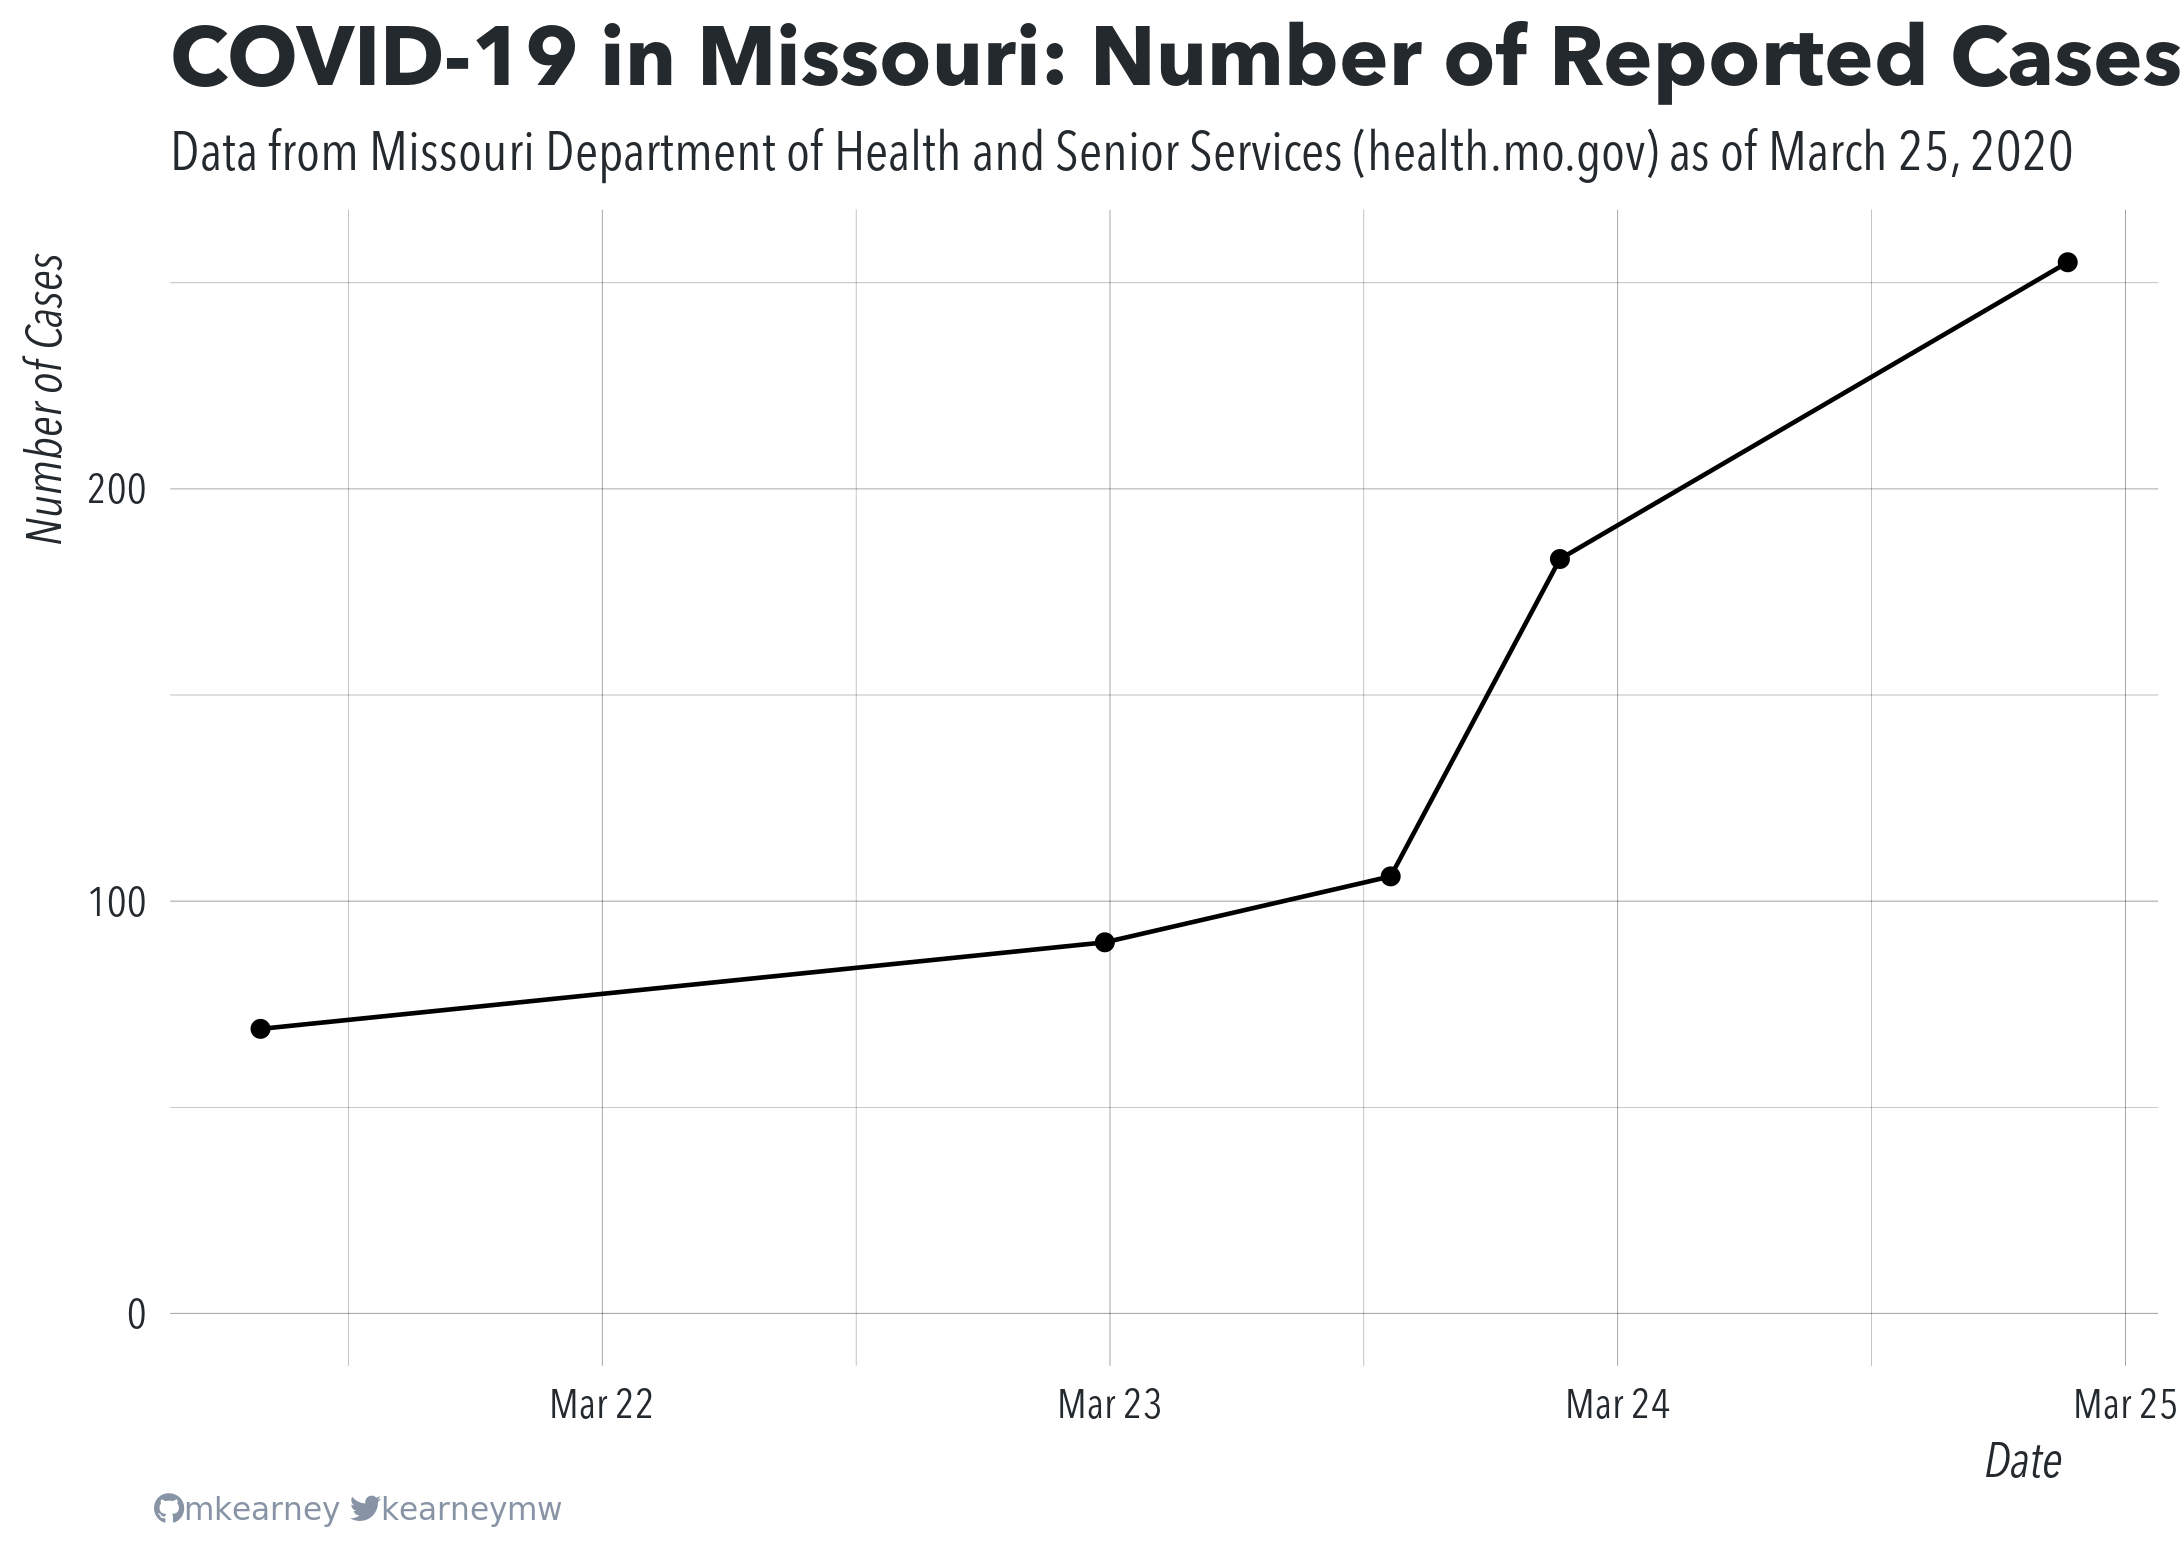
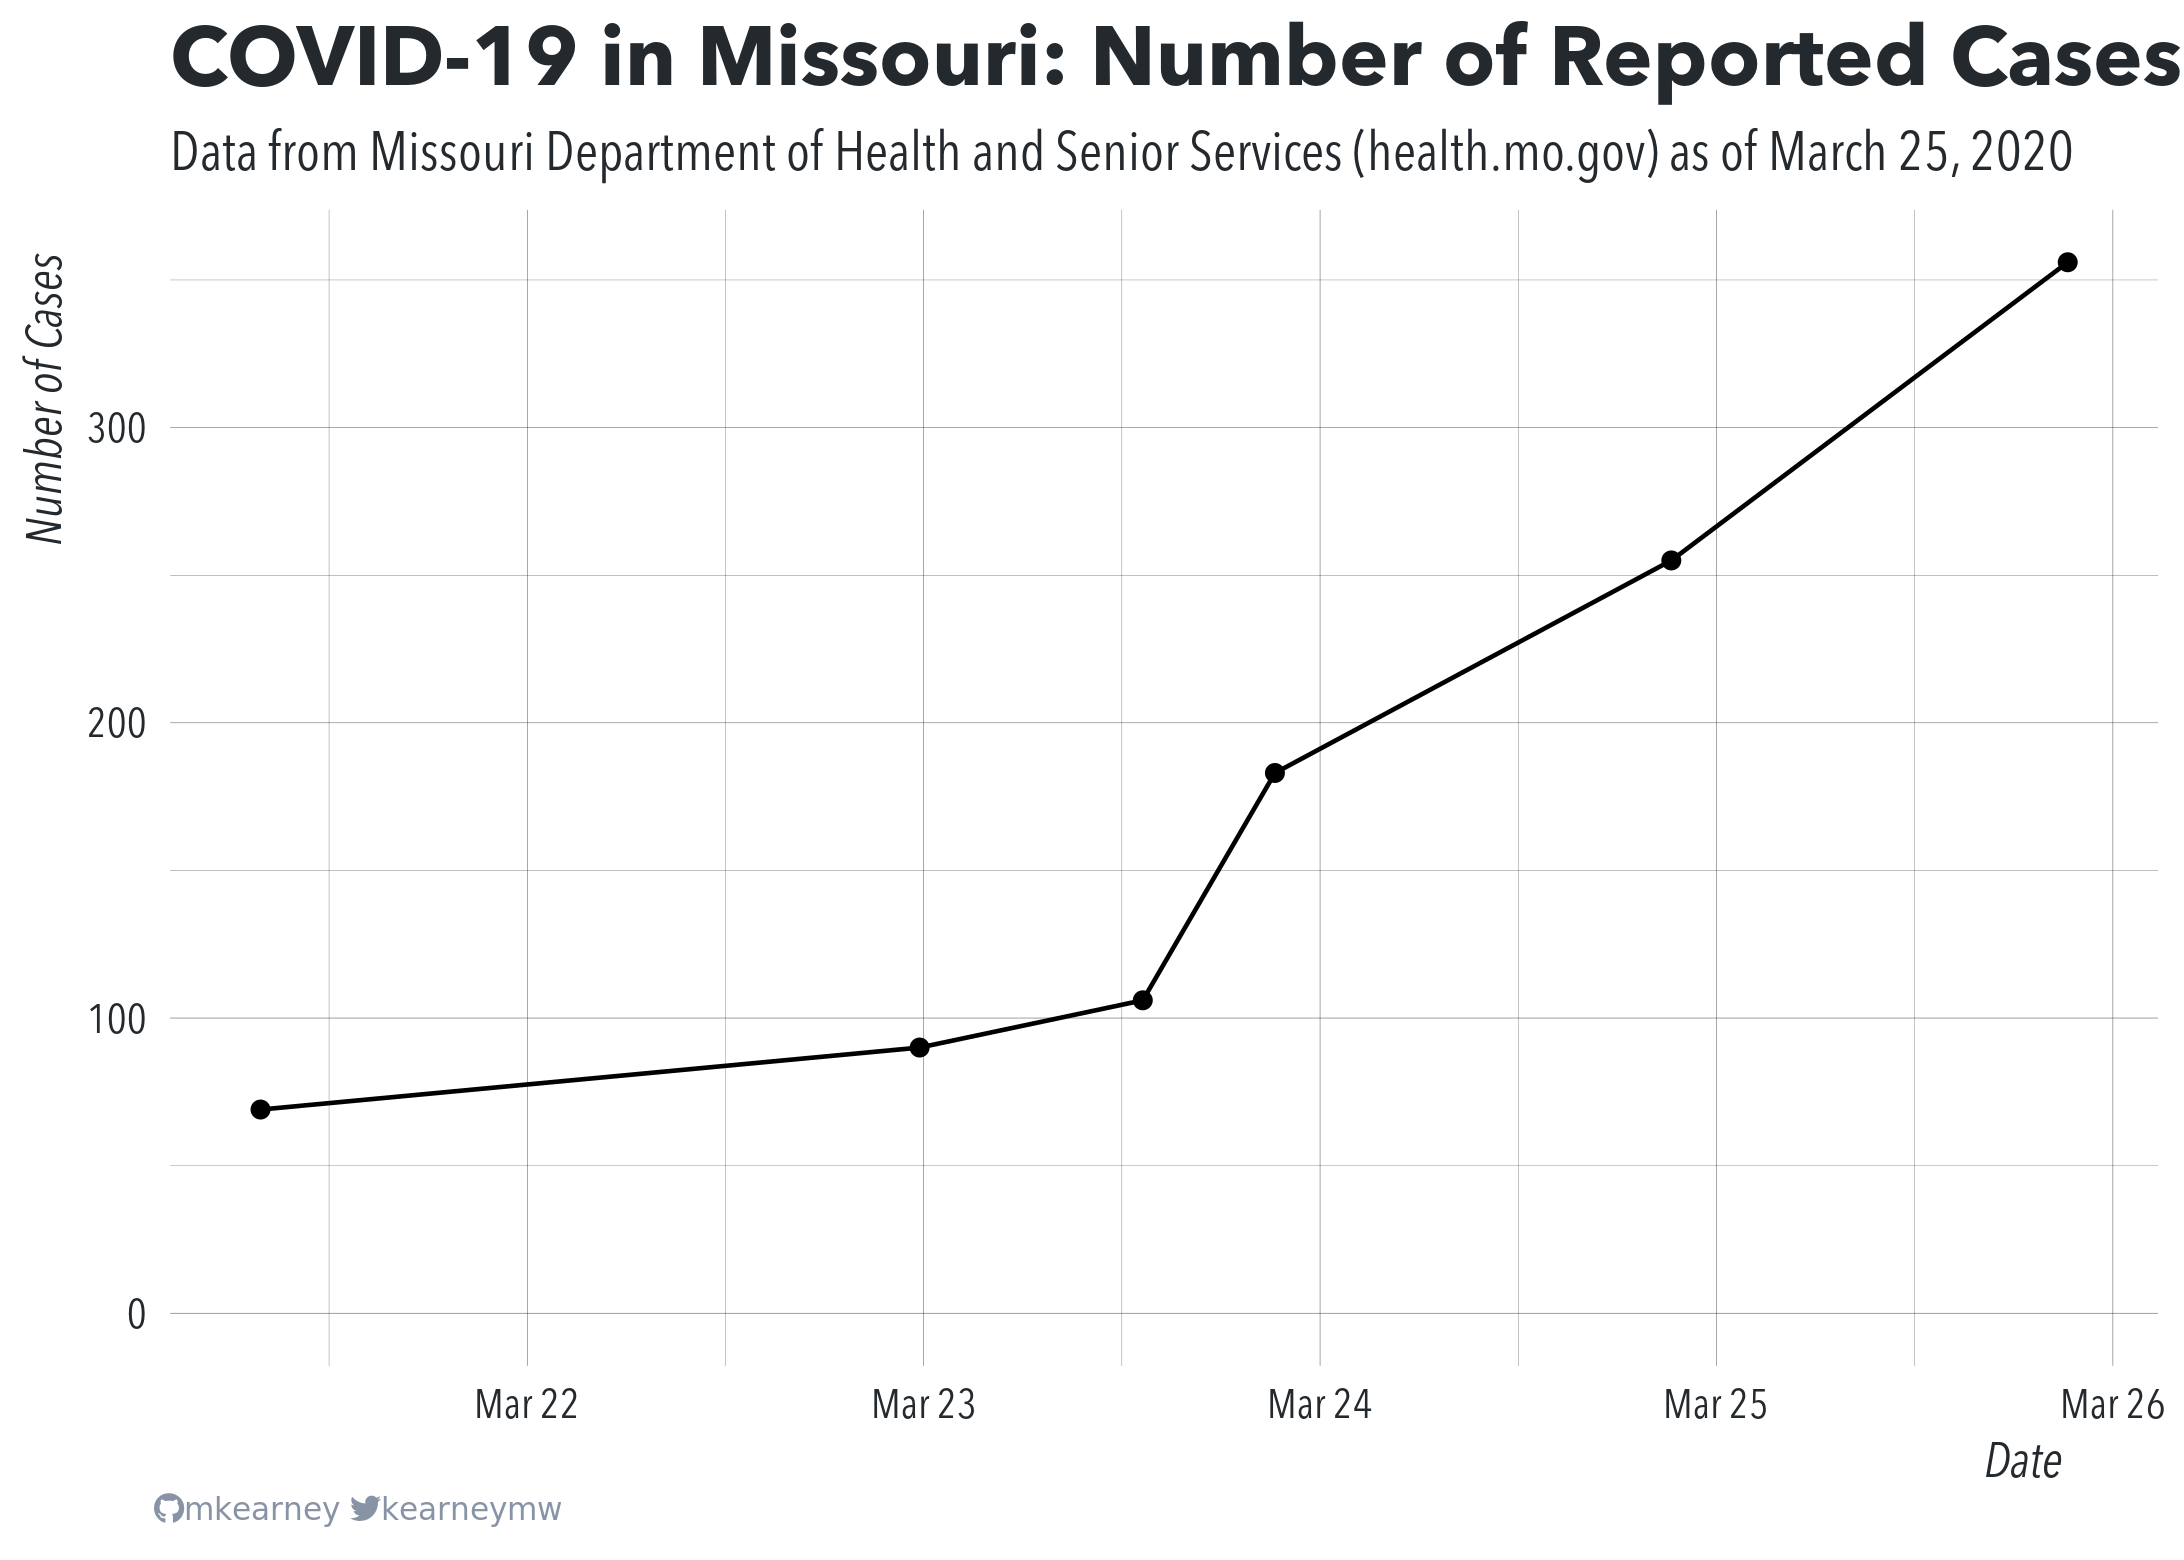
auto update

diff --git a/README.md b/README.md
@@ -25,36 +25,43 @@ at the state or county level:
 ``` r
 ## state totals daya
 suppressMessages(readr::read_csv("data/mo-total.csv"))
-#> # A tibble: 5 x 19
-#>   state state_abb total_cases state_labs other_labs ages_0_20 ages_20_29
-#>   <chr> <chr>           <dbl>      <dbl>      <dbl>     <dbl>      <dbl>
-#> 1 Miss… MO                255         55        200         8         60
-#> 2 Miss… MO                183         47        136         3         46
-#> 3 Miss… MO                106         47         59         1         26
-#> 4 Miss… MO                 90         38         52         1         24
-#> 5 Miss… MO                 69         NA         NA        NA         NA
-#> # … with 12 more variables: ages_30_39 <dbl>, ages_40_49 <dbl>,
+#> # A tibble: 6 x 32
+#>   state state_abb total_cases state_labs other_labs ages_Boone ages_Greene
+#>   <chr> <chr>           <dbl>      <dbl>      <dbl>      <dbl>       <dbl>
+#> 1 Miss… MO                356         62        294          1           3
+#> 2 Miss… MO                255         55        200         NA          NA
+#> 3 Miss… MO                183         47        136         NA          NA
+#> 4 Miss… MO                106         47         59         NA          NA
+#> 5 Miss… MO                 90         38         52         NA          NA
+#> 6 Miss… MO                 69         NA         NA         NA          NA
+#> # … with 25 more variables: ages_Jackson <dbl>, `ages_St. Charles` <dbl>,
+#> #   `ages_St. Louis City` <dbl>, `ages_St. Louis County` <dbl>,
+#> #   transmission_under_20 <dbl>, transmission_x20_29 <dbl>,
+#> #   transmission_x30_39 <dbl>, transmission_x40_49 <dbl>,
+#> #   transmission_x50_59 <dbl>, transmission_x60_69 <dbl>,
+#> #   transmission_x70 <dbl>, .timestamp <dttm>, .last_updated <dttm>,
+#> #   ages_0_20 <dbl>, ages_20_29 <dbl>, ages_30_39 <dbl>, ages_40_49 <dbl>,
 #> #   ages_50_59 <dbl>, ages_60_69 <dbl>, ages_70_plus <dbl>,
 #> #   transmission_travel <dbl>, transmission_contact <dbl>,
 #> #   transmission_no_known_contact <dbl>, transmission_unknown <dbl>,
-#> #   .timestamp <dttm>, .last_updated <dttm>, transmission_no_contact <dbl>
+#> #   transmission_no_contact <dbl>
 
 ## county data
 suppressMessages(readr::read_csv("data/mo-county.csv"))
-#> # A tibble: 494 x 6
-#>    county    total state_lab other_lab  fips timestamp          
-#>    <chr>     <dbl>     <dbl>     <dbl> <dbl> <dttm>             
-#>  1 Adair         1         0         1 29001 2020-03-25 17:16:01
-#>  2 Bates         1         0         1 29013 2020-03-25 17:16:01
-#>  3 Boone        20         1        19 29019 2020-03-25 17:16:01
-#>  4 Callaway      2         0         2 29027 2020-03-25 17:16:01
-#>  5 Camden        1         1         0 29029 2020-03-25 17:16:01
-#>  6 Cass          6         2         4 29037 2020-03-25 17:16:01
-#>  7 Christian     1         1         0 29043 2020-03-25 17:16:01
-#>  8 Clay          2         0         2 29047 2020-03-25 17:16:01
-#>  9 Clinton       1         0         1 29049 2020-03-25 17:16:01
-#> 10 Cole          5         3         2 29051 2020-03-25 17:16:01
-#> # … with 484 more rows
+#> # A tibble: 534 x 6
+#>    county         total state_lab other_lab  fips timestamp          
+#>    <chr>          <dbl>     <dbl>     <dbl> <dbl> <dttm>             
+#>  1 Adair              1         0         1 29001 2020-03-25 21:16:01
+#>  2 Bates              1         0         1 29013 2020-03-25 21:16:01
+#>  3 Boone             20         1        19 29019 2020-03-25 21:16:01
+#>  4 Callaway           2         0         2 29027 2020-03-25 21:16:01
+#>  5 Camden             1         1         0 29029 2020-03-25 21:16:01
+#>  6 Cape Girardeau     3         0         3 29031 2020-03-25 21:16:01
+#>  7 Cass               8         2         6 29037 2020-03-25 21:16:01
+#>  8 Christian          1         1         0 29043 2020-03-25 21:16:01
+#>  9 Clay               2         0         2 29047 2020-03-25 21:16:01
+#> 10 Clinton            1         0         1 29049 2020-03-25 21:16:01
+#> # … with 524 more rows
 ```
 
 ![](img/timeseries.png)
